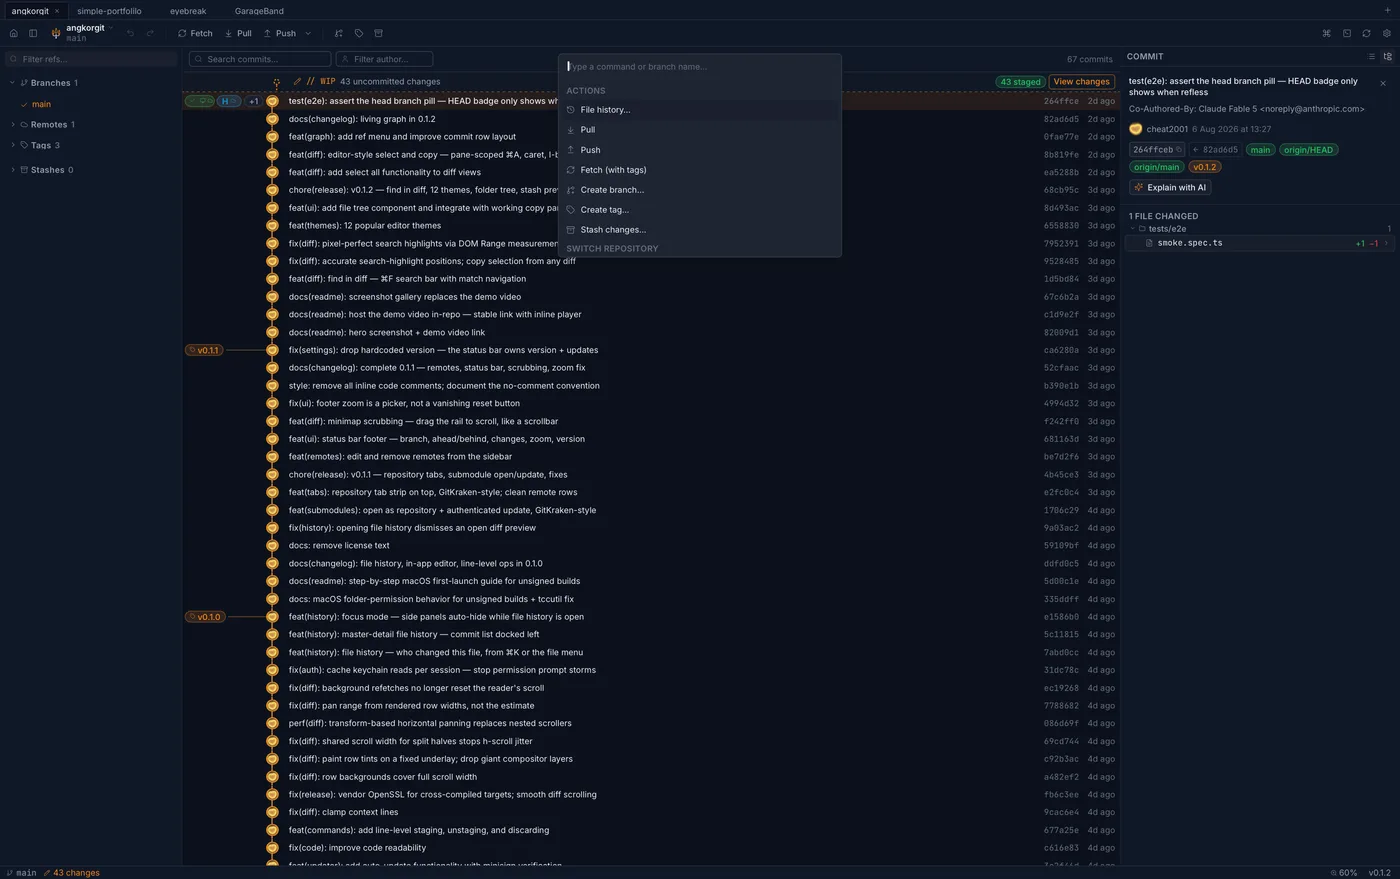
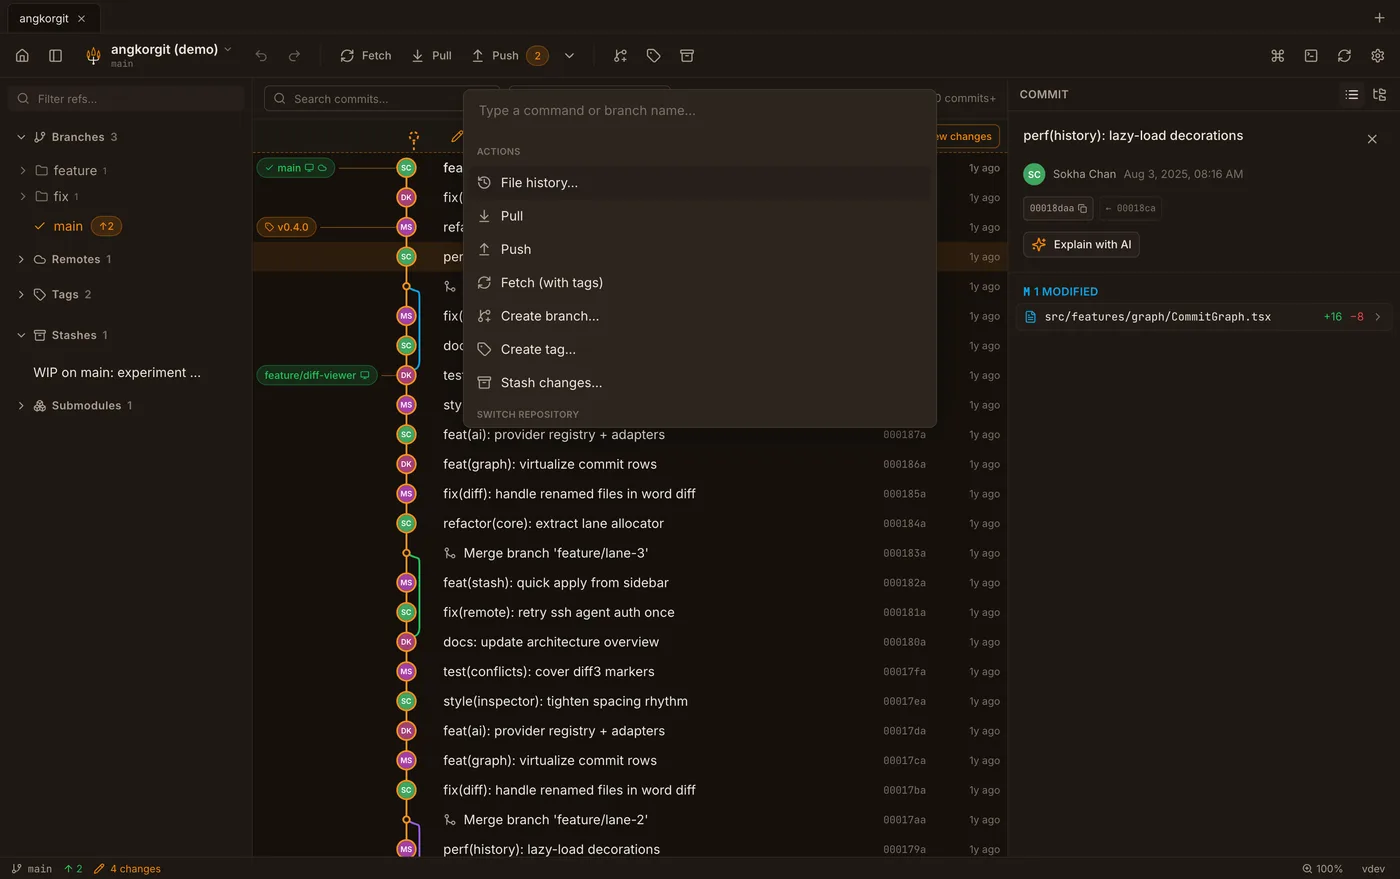
docs(assets): retake all screenshots in Angkor Dusk and Angkor Dawn
Every shot predated the 0.4.0 signature themes. The new set is
captured from demo mode in the current default Angkor Dusk with
Angkor Dawn light variants: the welcome screen now shows the kbach
colonnade ornament, the theme picker includes Dusk/Dawn, and the
settings rail reads Authentication. The demo file diff gains two
realistic hunks so the diff view fills the frame.

diff --git a/apps/desktop/src/core/demo.ts b/apps/desktop/src/core/demo.ts
@@ -142,28 +142,66 @@ export const demoFileDiff: FileDiff = {
   isImage: false,
   oldImage: null,
   newImage: null,
-  additions: 6,
-  deletions: 3,
+  additions: 16,
+  deletions: 8,
   hunks: [
     {
-      header: '@@ -24,9 +24,12 @@ export function CommitGraph() {',
+      header: '@@ -1,8 +1,9 @@',
+      oldStart: 1,
+      oldLines: 8,
+      newStart: 1,
+      newLines: 9,
+      lines: [
+        { kind: 'context', oldLineNo: 1, newLineNo: 1, content: "import { memo } from 'react';" },
+        { kind: 'deletion', oldLineNo: 2, newLineNo: null, content: "import { ROW_HEIGHT } from './constants';" },
+        { kind: 'addition', oldLineNo: null, newLineNo: 2, content: "import { useVirtualizer } from '@tanstack/react-virtual';" },
+        { kind: 'addition', oldLineNo: null, newLineNo: 3, content: "import { ROW_HEIGHT, OVERSCAN } from './constants';" },
+        { kind: 'context', oldLineNo: 3, newLineNo: 4, content: "import { useGraphRows } from './store';" },
+        { kind: 'context', oldLineNo: 4, newLineNo: 5, content: "import { GraphRow } from './GraphRow';" },
+        { kind: 'context', oldLineNo: 5, newLineNo: 6, content: '' },
+        { kind: 'deletion', oldLineNo: 6, newLineNo: null, content: 'const renderRow = (row: Row) => <GraphRow key={row.oid} row={row} />;' },
+        { kind: 'addition', oldLineNo: null, newLineNo: 7, content: 'const renderRow = (item: VirtualItem, row: Row) => (' },
+        { kind: 'addition', oldLineNo: null, newLineNo: 8, content: '  <GraphRow key={row.oid} row={row} start={item.start} />' },
+        { kind: 'addition', oldLineNo: null, newLineNo: 9, content: ');' },
+      ],
+    },
+    {
+      header: '@@ -24,9 +25,12 @@ export function CommitGraph() {',
       oldStart: 24,
       oldLines: 9,
-      newStart: 24,
+      newStart: 25,
       newLines: 12,
       lines: [
-        { kind: 'context', oldLineNo: 24, newLineNo: 24, content: 'const rows = useGraphRows();' },
+        { kind: 'context', oldLineNo: 24, newLineNo: 25, content: 'const rows = useGraphRows();' },
         { kind: 'deletion', oldLineNo: 25, newLineNo: null, content: 'const height = rows.length * ROW_HEIGHT;' },
-        { kind: 'addition', oldLineNo: null, newLineNo: 25, content: 'const virtualizer = useVirtualizer({' },
-        { kind: 'addition', oldLineNo: null, newLineNo: 26, content: '  count: rows.length,' },
-        { kind: 'addition', oldLineNo: null, newLineNo: 27, content: '  estimateSize: () => ROW_HEIGHT,' },
-        { kind: 'addition', oldLineNo: null, newLineNo: 28, content: '});' },
-        { kind: 'context', oldLineNo: 26, newLineNo: 29, content: 'return (' },
+        { kind: 'addition', oldLineNo: null, newLineNo: 26, content: 'const virtualizer = useVirtualizer({' },
+        { kind: 'addition', oldLineNo: null, newLineNo: 27, content: '  count: rows.length,' },
+        { kind: 'addition', oldLineNo: null, newLineNo: 28, content: '  estimateSize: () => ROW_HEIGHT,' },
+        { kind: 'addition', oldLineNo: null, newLineNo: 29, content: '  overscan: OVERSCAN,' },
+        { kind: 'addition', oldLineNo: null, newLineNo: 30, content: '});' },
+        { kind: 'context', oldLineNo: 26, newLineNo: 31, content: 'return (' },
         { kind: 'deletion', oldLineNo: 27, newLineNo: null, content: '  <div style={{ height }}>' },
         { kind: 'deletion', oldLineNo: 28, newLineNo: null, content: '    {rows.map(renderRow)}' },
-        { kind: 'addition', oldLineNo: null, newLineNo: 30, content: '  <div style={{ height: virtualizer.getTotalSize() }}>' },
-        { kind: 'addition', oldLineNo: null, newLineNo: 31, content: '    {virtualizer.getVirtualItems().map(renderRow)}' },
-        { kind: 'context', oldLineNo: 29, newLineNo: 32, content: '  </div>' },
+        { kind: 'addition', oldLineNo: null, newLineNo: 32, content: '  <div style={{ height: virtualizer.getTotalSize() }}>' },
+        { kind: 'addition', oldLineNo: null, newLineNo: 33, content: '    {virtualizer.getVirtualItems().map((item) => renderRow(item, rows[item.index]))}' },
+        { kind: 'context', oldLineNo: 29, newLineNo: 34, content: '  </div>' },
+      ],
+    },
+    {
+      header: '@@ -41,6 +47,10 @@ export function CommitGraph() {',
+      oldStart: 41,
+      oldLines: 6,
+      newStart: 47,
+      newLines: 10,
+      lines: [
+        { kind: 'context', oldLineNo: 41, newLineNo: 47, content: 'export function useGraphKeyboardNav(rows: Row[]) {' },
+        { kind: 'context', oldLineNo: 42, newLineNo: 48, content: '  const select = useGraphStore((s) => s.select);' },
+        { kind: 'deletion', oldLineNo: 43, newLineNo: null, content: "  useShortcut('ArrowDown', () => select(next()));" },
+        { kind: 'addition', oldLineNo: null, newLineNo: 49, content: "  useShortcut('ArrowDown', () => select(clamp(next(), rows.length - 1)));" },
+        { kind: 'addition', oldLineNo: null, newLineNo: 50, content: "  useShortcut('ArrowUp', () => select(clamp(prev(), 0)));" },
+        { kind: 'addition', oldLineNo: null, newLineNo: 51, content: "  useShortcut('Home', () => select(0));" },
+        { kind: 'addition', oldLineNo: null, newLineNo: 52, content: "  useShortcut('End', () => select(rows.length - 1));" },
+        { kind: 'context', oldLineNo: 44, newLineNo: 53, content: '}' },
       ],
     },
   ],
